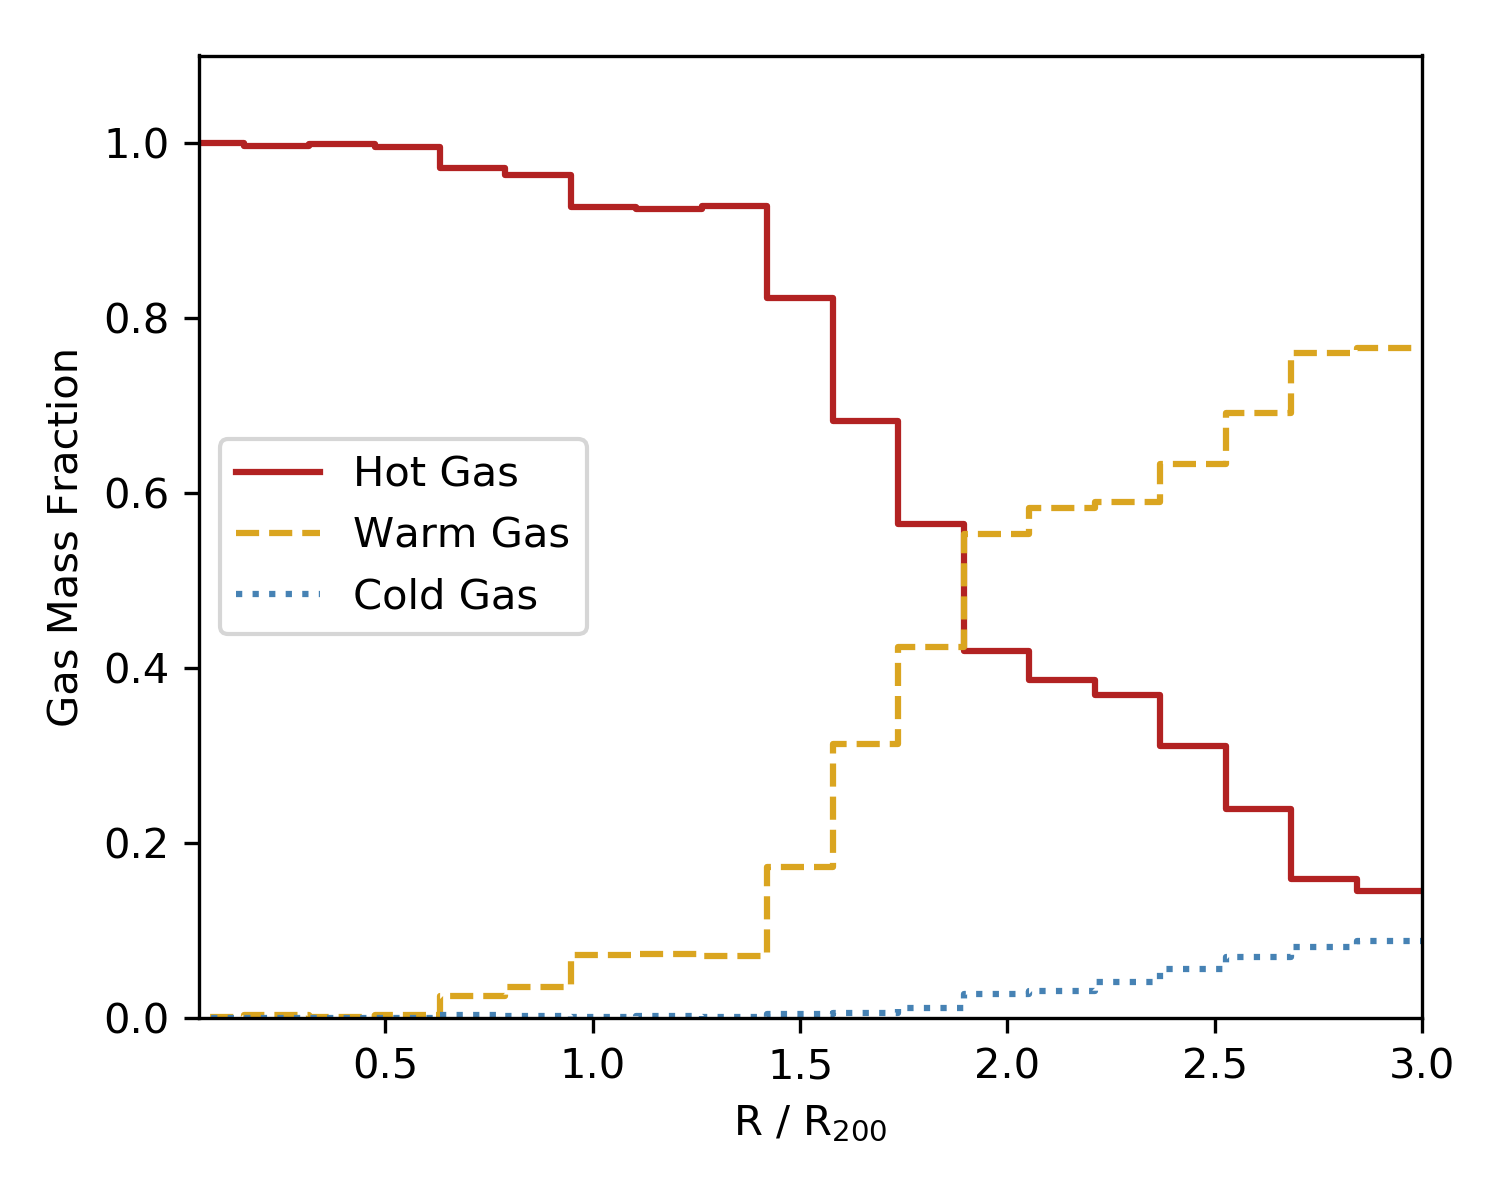
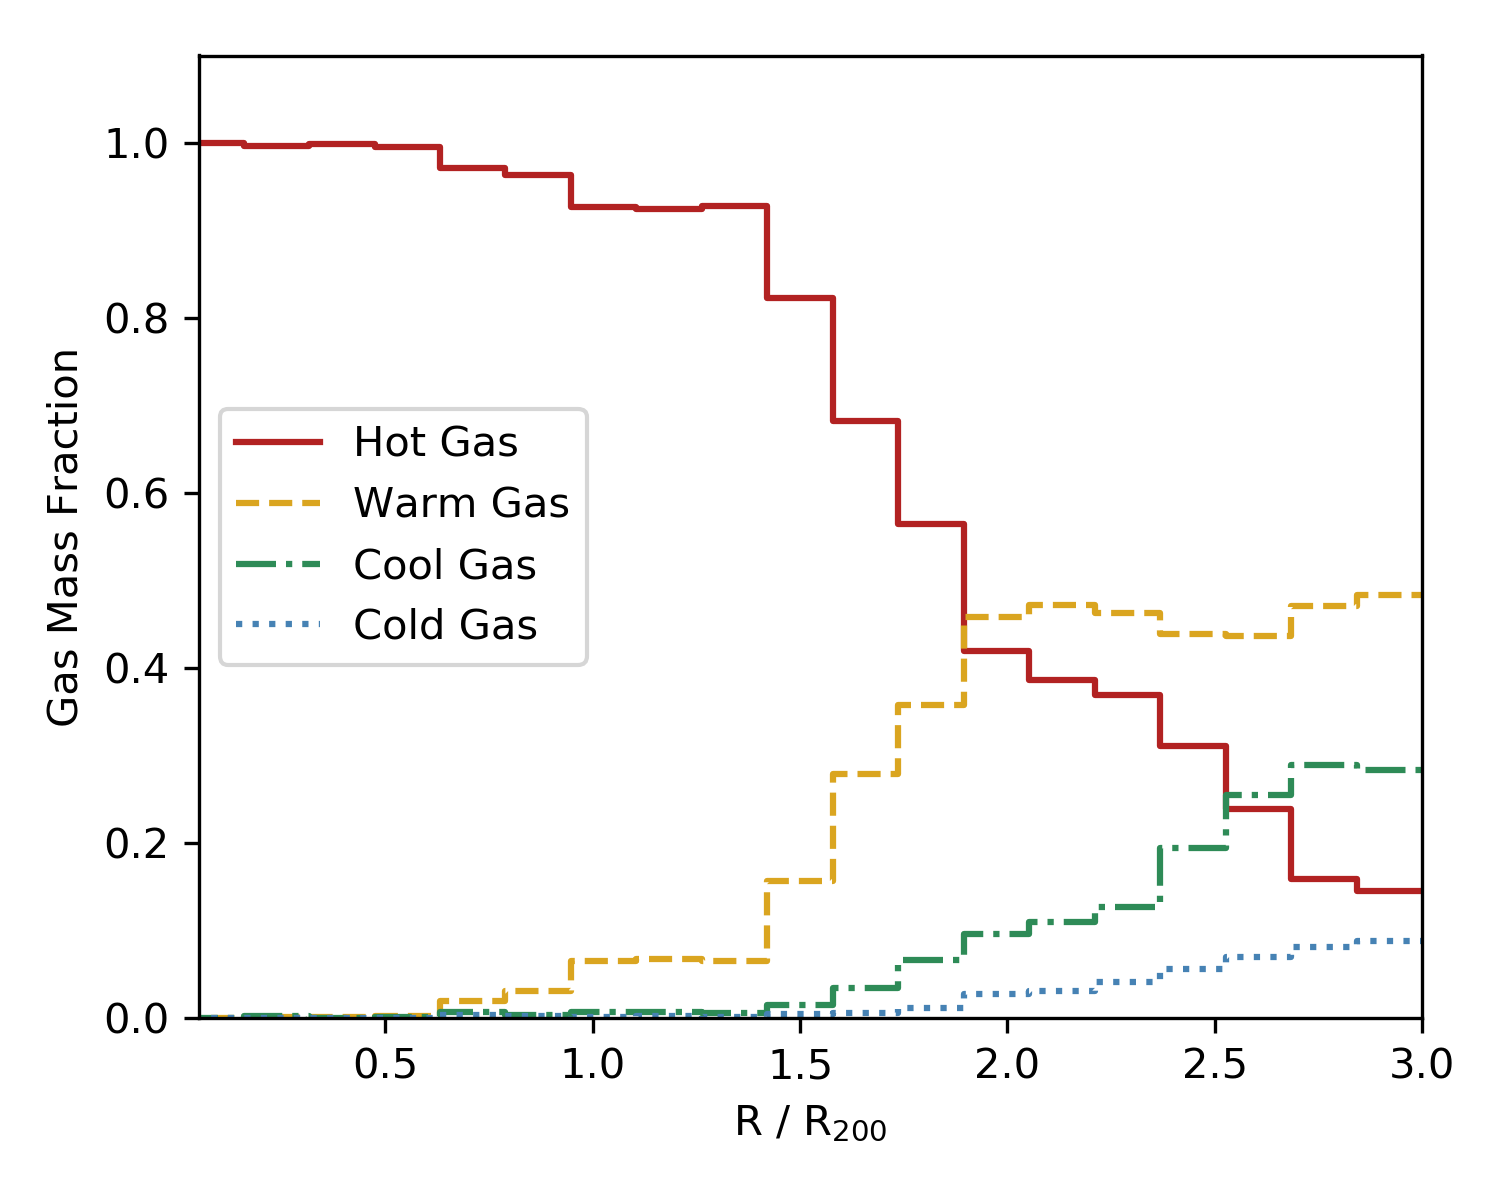
adding another line to temperature plot

diff --git a/generate_gas_temperature_profile.py b/generate_gas_temperature_profile.py
@@ -32,9 +32,10 @@ rvir = rom_help.get_romulus_rvir('romulusC', output)
 sp = ds.sphere(cen, (3.*rvir, 'kpc'))
 icm = sp.cut_region(["(obj[('gas', 'particle_H_nuclei_density')] < 0.1)"])
 
-icm_cool = sp.cut_region(["(obj[('gas', 'particle_H_nuclei_density')] < 0.1) & (obj[('gas', 'temperature')] <= 1e4)"])
-icm_warm = sp.cut_region(["(obj[('gas', 'particle_H_nuclei_density')] < 0.1) & (obj[('gas', 'temperature')] > 1e4) & (obj[('gas', 'temperature')] <= 1e6)"])
-icm_hot = sp.cut_region(["(obj[('gas', 'particle_H_nuclei_density')] < 0.1) & (obj[('gas', 'temperature')] > 1e6)"])
+icm_cold = sp.cut_region(["(obj[('gas', 'particle_H_nuclei_density')] < 0.1) & (obj[('gas', 'temperature')] <= 1e4)"])
+icm_cool = sp.cut_region(["(obj[('gas', 'particle_H_nuclei_density')] < 0.1) & (obj[('gas', 'temperature')]  > 1e4) & (obj[('gas', 'temperature')] <= 1e5)"])
+icm_warm = sp.cut_region(["(obj[('gas', 'particle_H_nuclei_density')] < 0.1) & (obj[('gas', 'temperature')]  > 1e5) & (obj[('gas', 'temperature')] <= 1e6)"])
+icm_hot  = sp.cut_region(["(obj[('gas', 'particle_H_nuclei_density')] < 0.1) & (obj[('gas', 'temperature')]  > 1e6)"])
 
 #x_cool, y_cool = make_mass_profile(icm_cool)
 #x_warm, y_warm = make_mass_profile(icm_warm)
@@ -43,17 +44,19 @@ icm_hot = sp.cut_region(["(obj[('gas', 'particle_H_nuclei_density')] < 0.1) & (o
 xfield = ('gas', 'spherical_position_radius')
 yfield = ('Gas', 'Mass')
 
+x_cold = icm_cold[xfield].in_units('kpc')
 x_cool = icm_cool[xfield].in_units('kpc')
 x_warm = icm_warm[xfield].in_units('kpc')
-x_hot = icm_hot[xfield].in_units('kpc')
+x_hot  = icm_hot[ xfield].in_units('kpc')
 
+y_cold = icm_cold[yfield].in_units('Msun')
 y_cool = icm_cool[yfield].in_units('Msun')
 y_warm = icm_warm[yfield].in_units('Msun')
-y_hot = icm_hot[yfield].in_units('Msun')
+y_hot  = icm_hot[ yfield].in_units('Msun')
 
 
-dset_list = ['rbins_cold', 'rbins_warm', 'rbins_hot', 'mass_cold', 'mass_warm', 'mass_hot']
-data_list = [x_cool, x_warm, x_hot, y_cool, y_warm, y_hot]
+dset_list = ['rbins_cold', 'rbins_cool',  'rbins_warm', 'rbins_hot', 'mass_cold', 'mass_cool', 'mass_warm', 'mass_hot']
+data_list = [x_cold, x_cool, x_warm, x_hot, y_cold, y_cool, y_warm, y_hot]
 outfile = h5.File('/nobackup/ibutsky/data/YalePaper/romulusC_%i_gas_temperature_profile_data'%(output), 'w')
 for dset, data in zip(dset_list, data_list):
     if dset not in outfile.keys():

diff --git a/plot_gas_temperature_profile.py b/plot_gas_temperature_profile.py
@@ -16,26 +16,30 @@ rvir = rom_help.get_romulus_rvir('romulusC', output)
 dset_list = ['rbins_cold', 'rbins_warm', 'rbins_hot', 'mass_cold', 'mass_warm', 'mass_hot']
 plot_data = h5.File('/nobackup/ibutsky/data/YalePaper/romulusC_%i_gas_temperature_profile_data'%(output), 'r')
 
-x_cool = np.array(plot_data['rbins_cold'][:]) / rvir
+x_cold = np.array(plot_data['rbins_cold'][:]) / rvir
+x_cool = np.array(plot_data['rbins_cool'][:]) / rvir
 x_warm = np.array(plot_data['rbins_warm'][:]) / rvir
 x_hot  = np.array(plot_data['rbins_hot' ][:]) / rvir
 
-y_cool = np.array(plot_data['mass_cold'][:])
+y_cold = np.array(plot_data['mass_cold'][:])
+y_cool = np.array(plot_data['mass_cool'][:])
 y_warm = np.array(plot_data['mass_warm'][:])
 y_hot  = np.array(plot_data['mass_hot' ][:])
 
 
 xmax = 3.
+x_cold_bins, y_cold_bins = ipd.digitize(x_cold, y_cold, xmax = xmax)
 x_cool_bins, y_cool_bins = ipd.digitize(x_cool, y_cool, xmax = xmax)
 x_warm_bins, y_warm_bins = ipd.digitize(x_warm, y_warm, xmax = xmax)
-x_hot_bins, y_hot_bins = ipd.digitize(x_hot, y_hot, xmax = xmax)
+x_hot_bins,  y_hot_bins  = ipd.digitize(x_hot,  y_hot,  xmax = xmax)
 
-ipd.normalize_digitized_arrays([y_cool_bins, y_warm_bins, y_hot_bins])
+ipd.normalize_digitized_arrays([y_cold_bins, y_cool_bins, y_warm_bins, y_hot_bins])
 
 fig, ax = plt.subplots(1, 1, figsize=(5, 4))
-ax.plot(ipd.interleave(x_hot_bins, 1), ipd.interleave(y_hot_bins, 0), color = 'firebrick',                       label = 'Hot Gas')
+ax.plot(ipd.interleave(x_hot_bins,  1), ipd.interleave(y_hot_bins,  0), color = 'firebrick',                       label = 'Hot Gas')
 ax.plot(ipd.interleave(x_warm_bins, 1), ipd.interleave(y_warm_bins, 0), color = 'goldenrod', linestyle = 'dashed', label = 'Warm Gas')
-ax.plot(ipd.interleave(x_cool_bins,  1), ipd.interleave(y_cool_bins,  0), color = 'steelblue', linestyle = 'dotted', label = 'Cold Gas')
+ax.plot(ipd.interleave(x_cool_bins, 1), ipd.interleave(y_cool_bins, 0), color = 'seagreen', linestyle = 'dashdot', label = 'Cool Gas')
+ax.plot(ipd.interleave(x_cold_bins, 1), ipd.interleave(y_cold_bins, 0), color = 'steelblue', linestyle = 'dotted', label = 'Cold Gas') 
 ax.legend(loc = 6)
 
 #plt.xlabel('Spherical Radius (kpc)')
